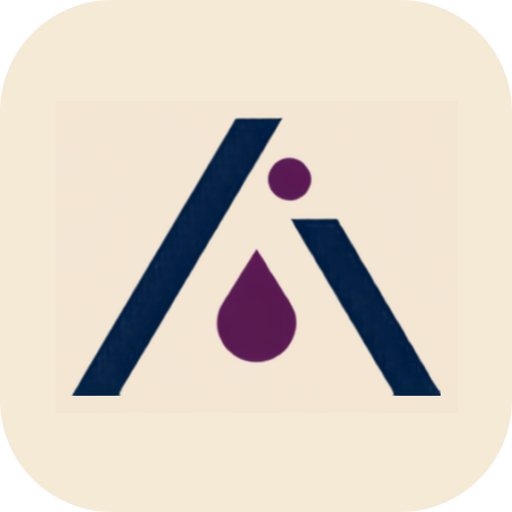
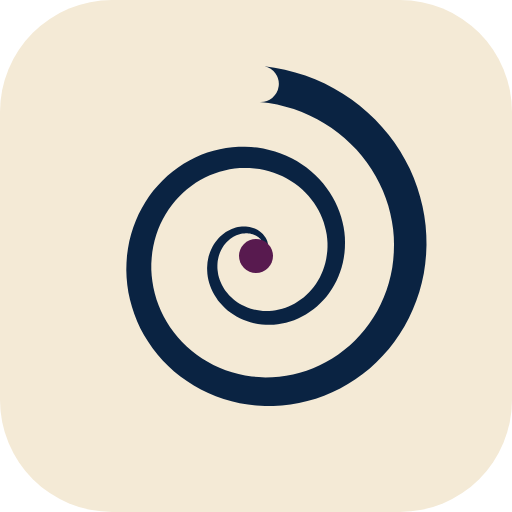
design(brand): new Assay identity — the specimen spiral
Replace the mark with an abstract, frontier-lab-spirit symbol (Anthropic/
DeepMind reference): a tapered ribbon winds inward — heavy at the rim, thinning
as it turns — and settles on a single plum specimen at its eye. One idea (many
trials drawn in to one reading), one warm accent, legible from app-icon down to
favicon. Pairs with the 'Assay' wordmark set in Sora.

Rebuilt from vector via scripts/build-logo.mjs, which renders the bare mark,
both rounded tiles, and the Next.js favicon from one source — with a proper
light-on-dark variant (bone ribbon + mauve eye) for the ink tile. Removes the
superseded build-brand.mjs / calm-og.mjs generators.

Changed region(s): [[0.125, 0.125, 0.875, 0.8125]]

diff --git a/apps/web/src/components/ui/BrandMark.tsx b/apps/web/src/components/ui/BrandMark.tsx
@@ -3,10 +3,11 @@
 import * as React from "react";
 
 /**
- * The Assay mark — a flask of separated chromatography bands, generated in Canva
- * and exported as a rounded tile (bone or ink). Rendered as an <img> so the real
- * brand asset is used verbatim rather than re-drawn. The tile is self-contained,
- * so it reads on both the warm light and dark surfaces.
+ * The Assay mark — a tapered spiral that winds inward and settles on a single
+ * plum specimen at its eye: many trials drawn in to one reading. Generated as a
+ * rounded tile (bone or ink) by scripts/build-logo.mjs and rendered as an <img>
+ * so the real brand asset is used verbatim rather than re-drawn. The tile is
+ * self-contained, so it reads on both the warm light and dark surfaces.
  */
 
 export type BrandMarkProps = {
